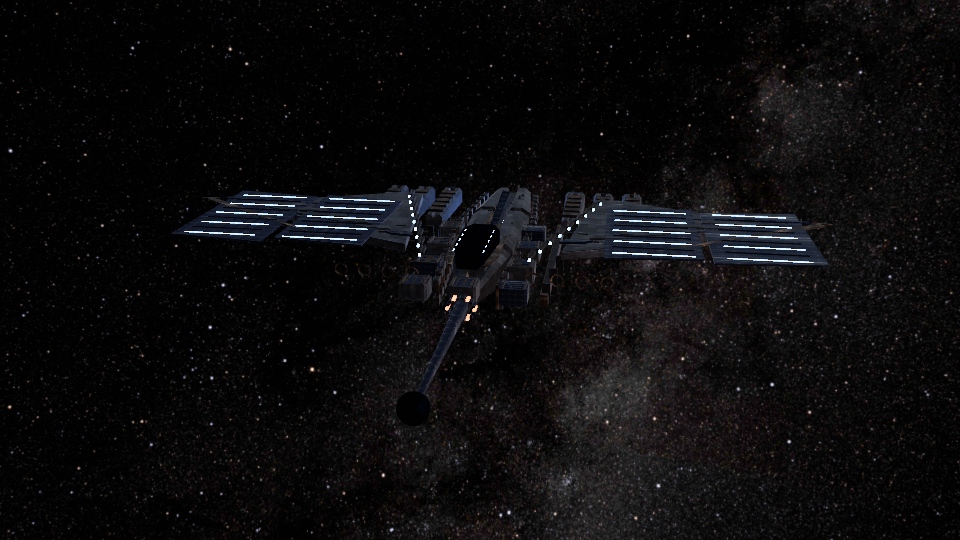
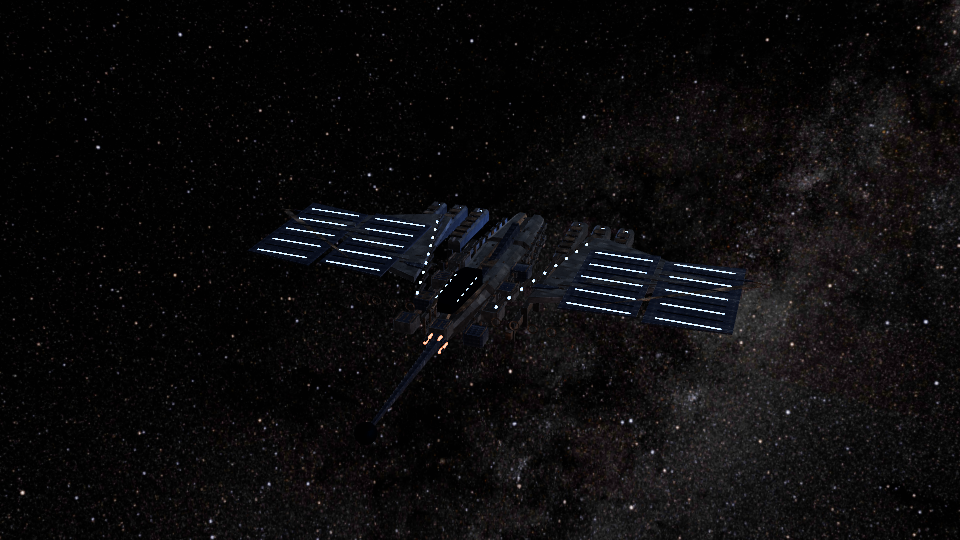
Make Asterion camera continuous with bullet-time breakaways

diff --git a/examples/build_advanced_space_demo.py b/examples/build_advanced_space_demo.py
@@ -723,73 +723,61 @@ for frame, energy in ((1,0),(2401,0),(2521,5600),(3061,5600),
     cargo_key.data.energy=energy
     cargo_key.data.keyframe_insert("energy",frame=frame)
 
-
-def camera(name, loc, target, focal):
-    data=bpy.data.cameras.new(name)
-    obj=bpy.data.objects.new(name,data)
-    rig.objects.link(obj)
-    obj.location=loc
-    obj.rotation_euler=(Vector(target)-obj.location).to_track_quat("-Z","Y").to_euler()
-    data.lens=focal
-    data.clip_end=500
-    return obj
+for burst_frame in (541, 1801, 3061):
+    flash = light(f"Breakaway flash | {burst_frame}", "POINT", (0, 0, 1),
+                  0, (0.57, 0.78, 1.0))
+    for frame, energy in ((1, 0), (burst_frame-1, 0),
+                          (burst_frame+4, 10500), (burst_frame+22, 1100),
+                          (burst_frame+65, 0), (LAST, 0)):
+        flash.data.energy = energy
+        flash.data.keyframe_insert("energy", frame=frame)
 
 
-cameras=[
-    camera("CAM A | three-quarter beauty",(22,-34,15),(0,-1,0),46),
-    camera("CAM B | overhead breakaway",(3,-22,38),(0,-1,0),34),
-    camera("CAM C | engines and debris",(-18,-23,4),(0,-2,0),40),
-    camera("CAM D | frontal reassembly",(2,32,13),(0,2.5,0),32),
-    camera("CAM E | illuminated cargo deck",(17,-20,18),(0,-1,1.4),37),
-]
-scene.camera=cameras[0]
-for frame, which, title in [(1,0,"COMBAT | compact strike ship"),
-                            (541,1,"Projectile breakup to EXPLORER"),
-                            (1261,3,"EXPLORER | survey array"),
-                            (1801,2,"Projectile breakup to HAULER"),
-                            (2521,4,"HAULER | cargo cradle"),
-                            (3061,2,"Return to COMBAT"),
-                            (3481,0,"COMBAT | final assembly")]:
-    marker=scene.timeline_markers.new(title,frame=frame)
-    marker.camera=cameras[which]
+camera_data = bpy.data.cameras.new("CAM | uninterrupted orbital take")
+camera_data.lens = 33
+camera_data.clip_end = 500
+camera_data.dof.use_dof = False  # deterministic TiXL camera approximation
+cinema_camera = bpy.data.objects.new(camera_data.name, camera_data)
+rig.objects.link(cinema_camera)
+scene.camera = cinema_camera
+previous_camera_rotation = None
 
 
-camera_rotations = {}
+def smootherstep(start, end, value):
+    amount = max(0.0, min(1.0, (value-start)/(end-start)))
+    return amount*amount*amount*(amount*(amount*6-15)+10)
 
 
-def camera_pose(cam, frame, location, target):
-    cam.location = location
-    rotation = (Vector(target)-cam.location).to_track_quat("-Z","Y").to_euler()
-    previous = camera_rotations.get(cam.name)
-    if previous is not None:
-        rotation.make_compatible(previous)
-    camera_rotations[cam.name] = rotation.copy()
-    cam.rotation_euler = rotation
-    cam.keyframe_insert("location", frame=frame)
-    cam.keyframe_insert("rotation_euler", frame=frame)
+def camera_pose(frame):
+    global previous_camera_rotation
+    seconds = (frame-1)/FPS
+    progress = seconds/60.0
+    # The base orbit never stops. Extra arc around each suspended debris field
+    # creates a bullet-time move without teleporting to another camera.
+    orbit = (-0.97 + math.tau*(0.80*progress
+             + 0.18*smootherstep(9.0, 17.0, seconds)
+             + 0.18*smootherstep(30.0, 40.0, seconds)
+             + 0.18*smootherstep(51.0, 57.0, seconds)))
+    radius = 36.0 + 3.5*math.sin(math.tau*progress+0.25)
+    height = 15.0 + 5.5*math.sin(math.tau*progress-0.4)
+    cinema_camera.location = (radius*math.cos(orbit),
+                              radius*math.sin(orbit), height)
+    target = Vector((0, -0.4 + 0.7*math.sin(math.tau*progress),
+                     0.5 + 0.4*math.sin(math.tau*progress-0.5)))
+    rotation = (target-cinema_camera.location).to_track_quat("-Z", "Y").to_euler()
+    if previous_camera_rotation is not None:
+        rotation.make_compatible(previous_camera_rotation)
+    previous_camera_rotation = rotation.copy()
+    cinema_camera.rotation_euler = rotation
+    cinema_camera.keyframe_insert("location", frame=frame)
+    cinema_camera.keyframe_insert("rotation_euler", frame=frame)
 
 
-# The bridge bakes the selected camera at 60 Hz. Each marker selects a moving
-# dolly/orbit shot rather than a static view for the duration of its clip.
-camera_shots = (
-    (0, ((1,(22,-34,15),(0,-1,0)), (260,(18,-29,17),(0,-1,0)),
-         (540,(12,-25,13),(0,-1,0)),
-         (3481,(28,-32,15),(0,-1,0)), (3601,(20,-28,12),(0,-1,0)))),
-    (1, ((541,(3,-22,38),(0,-1,0)), (900,(-7,-18,33),(0,1,0)),
-         (1260,(-13,-10,26),(0,2,0)))),
-    (2, ((1801,(-18,-23,5),(0,-2,0)), (2150,(-12,-27,13),(0,0,0)),
-         (2520,(-4,-24,20),(0,1,0)),
-         (3061,(-21,-20,8),(0,-1,0)), (3300,(-16,-9,13),(0,0,0)),
-         (3480,(-8,14,17),(0,1,0)))),
-    (3, ((1261,(2,32,13),(0,2.5,0)), (1500,(-8,30,10),(0,2,0)),
-         (1800,(-17,24,13),(0,1,0)))),
-    (4, ((2521,(17,-20,18),(0,-1,1.4)),
-         (2800,(7,-27,15),(0,-1,1.4)),
-         (3060,(-12,-27,17),(0,-1,1.4)))),
-)
-for camera_index, keys in camera_shots:
-    for frame, location, target in keys:
-        camera_pose(cameras[camera_index], frame, location, target)
+# Dense keys closely approximate the analytic continuous path in Blender and
+# in the bridge's 60 Hz camera bake. No timeline camera markers create cuts.
+for camera_frame in list(range(1, LAST, 12)) + [LAST]:
+    camera_pose(camera_frame)
+scene["camera_style"] = "single continuous orbital take; bullet-time debris orbits"
 
 
 def pose(obj, frame, position, angle, scale=(1,1,1)):
@@ -799,6 +787,13 @@ def pose(obj, frame, position, angle, scale=(1,1,1)):
     obj.keyframe_insert("location",frame=frame)
     obj.keyframe_insert("rotation_euler",frame=frame)
     obj.keyframe_insert("scale",frame=frame)
+
+
+def slowed_burst(frame, start, start_angle, start_scale,
+                 end, end_angle, end_scale, fraction):
+    return (frame, start.lerp(end, fraction),
+            start_angle.lerp(end_angle, fraction),
+            tuple(a+(b-a)*fraction for a,b in zip(start_scale,end_scale)))
 
 
 for idx,obj in enumerate(parts):
@@ -846,14 +841,25 @@ for idx,obj in enumerate(parts):
     # layouts. Key hold frames make the three role silhouettes unambiguous.
     trajectory=[(1,rest,(0,0,0),(1,1,1)),
                 (541,rest,(0,0,0),(1,1,1)),
-                (841,projectile,spin,(1,1,1)),
+                slowed_burst(580,rest,Vector((0,0,0)),(1,1,1),
+                             projectile,spin,(1,1,1),.30),
+                slowed_burst(900,rest,Vector((0,0,0)),(1,1,1),
+                             projectile,spin,(1,1,1),.35),
                 (1041,projectile+direction*2.0,spin*1.55,(1,1,1)),
                 (1261,explorer,explorer_angle,explorer_scale),
                 (1801,explorer,explorer_angle,explorer_scale),
+                slowed_burst(1840,explorer,explorer_angle,explorer_scale,
+                             projectile,spin,(1,1,1),.30),
+                slowed_burst(2180,explorer,explorer_angle,explorer_scale,
+                             projectile,spin,(1,1,1),.35),
                 (2251,projectile+direction*1.3,spin*.95,(1,1,1)),
                 (2461,projectile+direction*2.2,spin*1.5,(1,1,1)),
                 (2521,hauler,hauler_angle,hauler_scale),
                 (3061,hauler,hauler_angle,hauler_scale),
+                slowed_burst(3100,hauler,hauler_angle,hauler_scale,
+                             projectile,spin,(1,1,1),.30),
+                slowed_burst(3230,hauler,hauler_angle,hauler_scale,
+                             projectile,spin,(1,1,1),.35),
                 (3301,projectile,spin,(1,1,1)),
                 (LAST,rest,(0,0,0),(1,1,1))]
     for frame,position,angle,scale in trajectory:
@@ -950,23 +956,30 @@ for role, objects in role_parts.items():
         projectile=combat+direction*travel
         trajectory=((1,combat,combat_angle,combat_scale),
                     (541,combat,combat_angle,combat_scale),
-                    (841,projectile,spin,combat_scale),
+                    slowed_burst(580,combat,combat_angle,combat_scale,
+                                 projectile,spin,combat_scale,.30),
+                    slowed_burst(900,combat,combat_angle,combat_scale,
+                                 projectile,spin,combat_scale,.35),
                     (1041,projectile+direction*2,spin*1.55,combat_scale),
                     (1261,explorer,explorer_angle,explorer_scale),
                     (1801,explorer,explorer_angle,explorer_scale),
+                    slowed_burst(1840,explorer,explorer_angle,explorer_scale,
+                                 projectile,spin,combat_scale,.30),
+                    slowed_burst(2180,explorer,explorer_angle,explorer_scale,
+                                 projectile,spin,combat_scale,.35),
                     (2251,projectile+direction*1.3,spin*.95,combat_scale),
                     (2461,projectile+direction*2.2,spin*1.5,combat_scale),
                     (2521,hauler,hauler_angle,hauler_scale),
                     (3061,hauler,hauler_angle,hauler_scale),
+                    slowed_burst(3100,hauler,hauler_angle,hauler_scale,
+                                 projectile,spin,combat_scale,.30),
+                    slowed_burst(3230,hauler,hauler_angle,hauler_scale,
+                                 projectile,spin,combat_scale,.35),
                     (3301,projectile,spin,combat_scale),
                     (LAST,combat,combat_angle,combat_scale))
         for frame,position,angle,scale in trajectory:
             pose(obj,frame,position,angle,scale)
         obj["projectile_travel_m"] = round(travel,3)
-
-# The entire ship drifts and banks while geometry-based space remains fixed.
-for cam in cameras:
-    cam.data.dof.use_dof=False  # deterministic TiXL camera approximation
 
 scene.frame_set(1)
 scene["detachable_mesh_count"] = len(parts)+sum(len(v) for v in role_parts.values())

diff --git a/examples/validate_advanced_space_demo.py b/examples/validate_advanced_space_demo.py
@@ -138,13 +138,9 @@ assert occlusion_routes >= 5, "Packed ORM red channels are not routed to glTF oc
 
 markers = list(scene.timeline_markers)
 camera_markers = [marker for marker in markers if marker.camera is not None]
-marker_cameras = {marker.camera for marker in camera_markers}
-assert len(camera_markers) >= 5, (
-    f"Expected at least 5 camera-bound timeline markers, found {len(camera_markers)}"
-)
-assert len(marker_cameras) >= 3, (
-    f"Expected at least 3 distinct marker cameras, found {len(marker_cameras)}"
-)
+assert not camera_markers, "Camera-bound timeline markers would introduce cuts"
+assert scene.camera is not None, "The uninterrupted camera is missing"
+assert len(bpy.data.cameras) == 1, "The demo should use one physical camera"
 
 
 def local_pose(obj):
@@ -177,11 +173,16 @@ def configuration_bounds(candidates):
 
 original_frame = scene.frame_current
 original_subframe = scene.frame_subframe
-sample_frames = (1, 841, 1261, 1801, 2251, 2521, 3061, 3601)
+sample_frames = (1, 541, 580, 841, 900, 1041, 1261, 1801, 1840,
+                 2180, 2251, 2521, 3061, 3100, 3230, 3301, 3601)
 sampled_poses = {}
 sampled_bounds = {}
 visible_counts = {}
-camera_motion = {}
+camera_samples = {}
+camera_probe_frames = sorted(set(range(1, scene.frame_end+1, 30)) | {scene.frame_end} |
+                             {frame+offset for frame in (541, 580, 900, 1041,
+                              1801, 1840, 2180, 2251, 3061, 3100, 3230, 3301)
+                              for offset in (-1, 0, 1)})
 try:
     for frame in sample_frames:
         scene.frame_set(frame)
@@ -194,23 +195,11 @@ try:
             or obj.get("configuration_role") in {"EXPLORER", "HAULER"}
         ]
         sampled_bounds[frame] = configuration_bounds(config_objects)
-    ordered_markers = sorted(camera_markers, key=lambda marker: marker.frame)
-    for index, marker in enumerate(ordered_markers):
-        end = (ordered_markers[index + 1].frame - 1
-               if index + 1 < len(ordered_markers) else scene.frame_end)
-        scene.frame_set(marker.frame)
+    for frame in camera_probe_frames:
+        scene.frame_set(frame)
         bpy.context.view_layer.update()
-        start_location = marker.camera.matrix_world.translation.copy()
-        start_rotation = marker.camera.matrix_world.to_quaternion()
-        scene.frame_set(end)
-        bpy.context.view_layer.update()
-        end_location = marker.camera.matrix_world.translation.copy()
-        end_rotation = marker.camera.matrix_world.to_quaternion()
-        distance = (end_location - start_location).length
-        raw_angle = start_rotation.rotation_difference(end_rotation).angle
-        angle = min(raw_angle, math.tau-raw_angle)
-        camera_motion[marker.name] = {"travelMeters": distance,
-                                      "rotationRadians": angle}
+        camera_samples[frame] = (scene.camera.matrix_world.translation.copy(),
+                                 scene.camera.matrix_world.to_quaternion())
 finally:
     scene.frame_set(original_frame, subframe=original_subframe)
     bpy.context.view_layer.update()
@@ -231,10 +220,43 @@ assert len(animated_detachable) >= 350, (
 assert all(count == len(detachable) for count in visible_counts.values()), (
     f"Some craft pieces disappear instead of being reused: {visible_counts}"
 )
-assert all(motion["travelMeters"] > 3.0 and motion["rotationRadians"] > .08
-           for motion in camera_motion.values()), (
-    f"Every camera shot must move and turn visibly: {camera_motion}"
+camera_travel = sum((camera_samples[right][0]-camera_samples[left][0]).length
+                    for left, right in zip(camera_probe_frames, camera_probe_frames[1:]))
+max_camera_speed = max(
+    (camera_samples[right][0]-camera_samples[left][0]).length/(right-left)
+    for left, right in zip(camera_probe_frames, camera_probe_frames[1:]))
+max_camera_turn = max(
+    min((angle := camera_samples[left][1].rotation_difference(
+        camera_samples[right][1]).angle), math.tau-angle)/(right-left)
+    for left, right in zip(camera_probe_frames, camera_probe_frames[1:]))
+assert camera_travel > 100, f"The camera orbit is too static: {camera_travel} m"
+assert max_camera_speed < .4 and max_camera_turn < .02, (
+    f"The camera has a visible jump: {max_camera_speed} m/frame, "
+    f"{max_camera_turn} rad/frame"
 )
+
+
+def mean_motion(first, last):
+    return sum((sampled_poses[last][obj.name][0]
+                -sampled_poses[first][obj.name][0]).length
+               for obj in detachable)/len(detachable)/(last-first)
+
+
+bullet_time = {}
+for name, first, snap, hold, release in (
+        ("combat_to_explorer", 541, 580, 900, 1041),
+        ("explorer_to_hauler", 1801, 1840, 2180, 2251),
+        ("hauler_to_combat", 3061, 3100, 3230, 3301)):
+    snap_speed = mean_motion(first, snap)
+    hold_speed = mean_motion(snap, hold)
+    release_speed = mean_motion(hold, release)
+    assert hold_speed < snap_speed*.12 and hold_speed < release_speed*.12, (
+        f"{name} lacks a sustained bullet-time drift: "
+        f"{snap_speed}, {hold_speed}, {release_speed}"
+    )
+    bullet_time[name] = {"snapMetersPerFrame": snap_speed,
+                         "driftMetersPerFrame": hold_speed,
+                         "releaseMetersPerFrame": release_speed}
 
 return_errors = []
 for obj in detachable:
@@ -281,12 +303,15 @@ summary = {
     },
     "specializedModuleCounts": {"EXPLORER": len(explorer), "HAULER": len(hauler)},
     "visiblePartCounts": visible_counts,
-    "movingCameraShots": camera_motion,
+    "cameraTravelMeters": camera_travel,
+    "maxCameraMetersPerFrame": max_camera_speed,
+    "maxCameraRadiansPerFrame": max_camera_turn,
+    "bulletTime": bullet_time,
     "animatedDetachableCount": len(animated_detachable),
     "packedTextureImageCount": len(packed_images),
     "gltfOcclusionRoutes": occlusion_routes,
     "cameraMarkerCount": len(camera_markers),
-    "distinctMarkerCameraCount": len(marker_cameras),
+    "cameraObjectCount": len(bpy.data.cameras),
     "configurationBoundsDistance": configuration_distances,
     "returnedToRestCount": len(detachable),
     "restoredFrame": original_frame,

diff --git a/examples/advanced_spaceship/README.md b/examples/advanced_spaceship/README.md
@@ -1,6 +1,6 @@
 # Asterion Breakaway demo
 
-A 60-second Blender-to-TiXL stress scene: one persistent set of 492 spacecraft meshes breaks into individually animated projectile parts and rebuilds as three distinct configurations. Every part is visible and reused in COMBAT, EXPLORER, and HAULER; no role modules are swapped in or hidden. The builder creates 600+ scene objects including the space environment, cameras, and lights.
+A 60-second Blender-to-TiXL stress scene: one persistent set of 492 spacecraft meshes breaks into individually animated projectile parts and rebuilds as three distinct configurations. Every part is visible and reused in COMBAT, EXPLORER, and HAULER; no role modules are swapped in or hidden. One camera follows the action in an uninterrupted orbital take.
 
 ## Materials and texture assets
 
@@ -23,7 +23,7 @@ Run `../build_advanced_space_demo.py` through the official Blender MCP TCP exten
 
 ## Timeline
 
-The scene is 60 seconds at 60 fps. Camera markers select seven moving dolly and orbit shots while keyed object transforms stage the sequence:
+The scene is 60 seconds at 60 fps. A single camera follows a continuous orbit with no camera markers or cuts. At each breakaway, the parts snap outward, drift almost motionless while the camera circles the suspended debris, then accelerate into the next configuration. Brief blue-white point-light flashes emphasize the three explosions. Keyed object transforms stage the sequence:
 
 | Time | Configuration or action |
 | --- | --- |
@@ -34,15 +34,15 @@ The scene is 60 seconds at 60 fps. Camera markers select seven moving dolly and 
 | 42–51 s | HAULER cargo configuration |
 | 51–60 s | Return to COMBAT and final assembly |
 
-The same hull, survey, and cargo meshes form all three ships. Each module has combat, explorer, hauler, and projectile poses, so the transition exercises hundreds of independent transform records without adding or removing craft parts. All 492 craft meshes have distinct manufactured profiles and individually offset texture wear. The hull and engine pieces have recessed service trenches; cargo pods have four roof machinery patterns. `../validate_advanced_space_demo.py`, run through Blender MCP TCP, checks the persistent pool, its visibility at representative frames, distinct mesh profiles, packed maps, and movement within every camera shot.
+The same hull, survey, and cargo meshes form all three ships. Each module has combat, explorer, hauler, and projectile poses, so the transition exercises hundreds of independent transform records without adding or removing craft parts. All 492 craft meshes have distinct manufactured profiles and individually offset texture wear. The hull and engine pieces have recessed service trenches; cargo pods have four roof machinery patterns. `../validate_advanced_space_demo.py`, run through Blender MCP TCP, checks the persistent pool, its visibility at representative frames, distinct mesh profiles, packed maps, camera continuity, and the slowed debris intervals.
 
 ## TiXL sync and verification
 
 With the saved scene open through Blender MCP TCP, sync it using the bridge workflow and the configured TiXL operator project. In TiXL, inspect the generated world graph and texture routes, then evaluate and capture renders at the COMBAT, breakup, EXPLORER, HAULER, and final assembly markers. Confirm the rendered output as well as graph connections.
 
-The current reference run synced successfully to TiXL 4.3.0.2. Its generated cache contains 642 exported mesh objects and 492 animated reusable craft parts, with no visibility-switch channels. The seven moving camera shots and 60-second range transferred. The generated graph had 29 children and 52 connections, with no missing child or connection references. The 16K panorama is embedded as an unmodified JPEG image in the glTF scene. The full sync took about 70 seconds and published about 198 MB of generated cache data. TiXL rendered all three configurations, both breakup sequences, reassembly, and the final combat ship; see the [TiXL combat](previews/tixl_combat.png), [explorer](previews/tixl_explorer.png), [hauler](previews/tixl_hauler.png), and [graph overview](previews/tixl_graph_overview.png). Compare the [explorer camera move](previews/tixl_explorer_move.png) and [hauler camera move](previews/tixl_hauler_move.png) with their earlier frames. Matching [Blender combat](previews/combat_blender.png), [explorer](previews/explorer_blender.png), [hauler](previews/hauler_blender.png), and [cargo roof detail](previews/detail_hauler_blender.png) renders are included.
+The current reference run synced successfully to TiXL 4.3.0.2. Its generated cache contains 492 animated reusable craft parts, with no visibility-switch channels. The single 60-second camera rail has 3,600 samples; its largest adjacent-frame move is 0.253 m and its largest forward-direction turn is 0.007 rad. The generated graph has 29 children and 52 connections, with no missing child or connection references. The 16K panorama remains embedded in the glTF scene. The sync took about 66 seconds and published about 199 MB of generated cache data. TiXL rendered all three configurations and each slowed breakup: [combat](previews/tixl_combat.png), [first snap](previews/tixl_bullet_snap.png), [first suspended drift](previews/tixl_bullet_drift.png), [explorer](previews/tixl_explorer.png), [second suspended drift](previews/tixl_bullet_hauler.png), [hauler](previews/tixl_hauler.png), [return drift](previews/tixl_bullet_return.png), and [final combat](previews/tixl_final.png). Matching Blender views show the [first snap](previews/bullet_time_snap_blender.png), [suspended drift](previews/bullet_time_drift_blender.png), and [hauler transition](previews/bullet_time_hauler_blender.png).
 
-The bounded live playback sample in [playback_metrics.json](playback_metrics.json) advanced the editor clock roughly three seconds in each assembled configuration. TiXL reported 56.0–60.4 FPS, 283–298 MB managed memory, and 921 MB GPU memory across those samples. The 16K sky texture accounts for a substantial increase in GPU use over the previous backdrop. Its output-evaluation counters did not advance during this sample, so these values do not establish continuous scene-rendering performance. The captured output at ten timeline checkpoints verifies the scene content and camera views separately.
+The earlier bounded playback sample in [playback_metrics.json](playback_metrics.json) predates this camera revision. The eight current output captures above verify the new camera views and breakup staging. TiXL's output-evaluation counters do not establish continuous scene-rendering performance; use workload-specific profiling for that question.
 
 ## Current limitations
 
